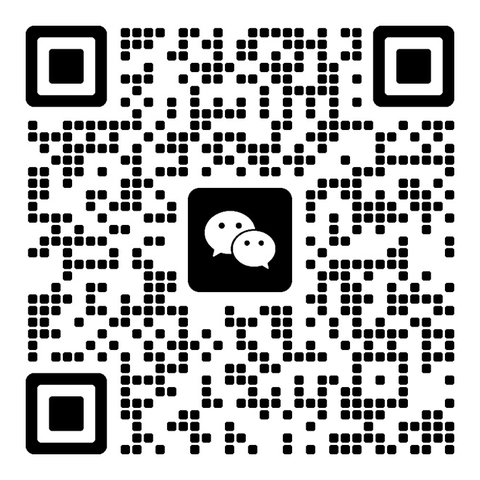
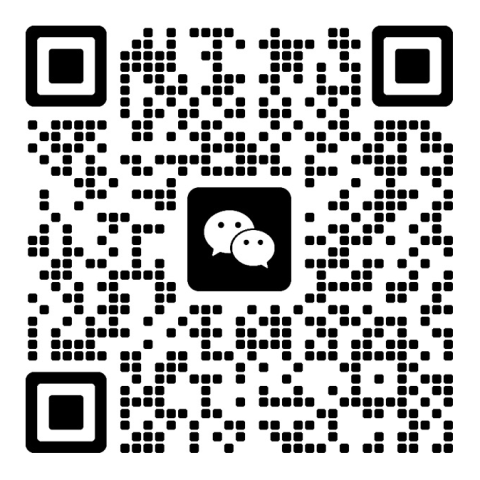
Add WeChat (new QR) to contact sections; home quote band as Al Rajhi Steel sales
- assets/img/wechat-qr.png replaced with Omar's current WeChat QR
  (decodes to u.wechat.com/kE-uHAEidJhDIJ80ba1eqgM); the "add on WeChat"
  link on all Chinese pages updated to match.
- WeChat line + QR block added to the contact sections of /rebar/, /ar/rebar/,
  home (EN, AR) and /contact/ (EN, AR), next to WhatsApp, email, LinkedIn, X.
- Home quote band: label "Al Rajhi Steel · Reinforcing steel sales" and
  "I will arrange an official Al Rajhi Steel quotation" (EN, AR).

Claude-Session: https://claude.ai/code/session_015w6cDdfB8Ng253RMhHQUzo

diff --git a/ar/index.html b/ar/index.html
@@ -607,15 +607,17 @@
       <ul class="contact-list rise">
         <li><a href="mailto:omar.mashharawi@rajhisteel.com" dir="ltr">omar.mashharawi@rajhisteel.com<span>بريد العمل</span></a></li>
         <li><a href="mailto:info@mashharawi.com" dir="ltr">info@mashharawi.com<span>البريد</span></a></li>
+        <li><a href="#wechat">WeChat<span>امسح الرمز</span></a></li>
       </ul>
+      <div id="wechat" style="display:flex;flex-wrap:wrap;gap:24px;align-items:center;margin-top:28px;padding:20px;border:1px solid var(--line);max-width:760px"><img src="/assets/img/wechat-qr.png?v=20261116" width="160" height="160" alt="رمز WeChat لعمر المشهراوي" loading="lazy" decoding="async" style="width:160px;height:160px;display:block;background:#fff"><div><h3 style="margin:0 0 8px">WeChat</h3><p style="margin:0 0 14px;max-width:46ch">امسح الرمز بتطبيق WeChat لإضافتي. أرسل المقاسات والكميات أو جدول التفريد، ويمكن الكتابة بالصينية أو العربية أو الإنجليزية.</p><a class="q-btn q-btn--line" href="https://u.wechat.com/kE-uHAEidJhDIJ80ba1eqgM?s=2" target="_blank" rel="noopener">أضفني على WeChat من الجوال</a></div></div>
     </div>
   </section>
 
   <section class="q-band" aria-labelledby="qb-h">
     <div class="wrap">
-      <p class="q-eyebrow">توريد حديد التسليح · الراجحي للحديد</p>
+      <p class="q-eyebrow">الراجحي للحديد · مبيعات حديد التسليح</p>
       <h2 id="qb-h">تحتاج حديد تسليح لمشروعك؟</h2>
-      <p>أنا رئيس قسم في الراجحي للحديد. أرسل لي المقاسات والكميات أو جدول التفريد، وأرجع لك بعرض سعر.</p>
+      <p>أنا رئيس قسم في الراجحي للحديد. أرسل لي المقاسات والكميات أو جدول التفريد، وأرتّب لك عرض سعر رسمياً من الراجحي للحديد.</p>
       <ul class="q-facts">
         <li>10 إلى 32 مم · طول 12 م</li><li>Grade 60 و Grade 80</li><li>قص حسب الطلب</li><li>دهان إيبوكسي</li><li>شهادات المطحنة للمقاسات والدرجة المطلوبة</li><li>تسليم فوري بعد الدفع أو الاعتماد البنكي وفق إجراءات الشركة</li><li>الرياض · جدة · القصيم · الطائف</li><li>شحن لجميع مناطق المملكة</li>
       </ul>

diff --git a/index.html b/index.html
@@ -642,15 +642,17 @@
       <ul class="contact-list rise">
         <li><a href="mailto:omar.mashharawi@rajhisteel.com">omar.mashharawi@rajhisteel.com<span>Work email</span></a></li>
         <li><a href="mailto:info@mashharawi.com">info@mashharawi.com<span>Email</span></a></li>
+        <li><a href="#wechat">WeChat<span>Scan the QR code</span></a></li>
       </ul>
+      <div id="wechat" style="display:flex;flex-wrap:wrap;gap:24px;align-items:center;margin-top:28px;padding:20px;border:1px solid var(--line);max-width:760px"><img src="/assets/img/wechat-qr.png?v=20261116" width="160" height="160" alt="Omar Mashharawi WeChat QR code" loading="lazy" decoding="async" style="width:160px;height:160px;display:block;background:#fff"><div><h3 style="margin:0 0 8px">WeChat</h3><p style="margin:0 0 14px;max-width:46ch">Scan with WeChat to add me. Send the sizes and tonnes or the bar bending schedule, in Chinese, English or Arabic.</p><a class="q-btn q-btn--line" href="https://u.wechat.com/kE-uHAEidJhDIJ80ba1eqgM?s=2" target="_blank" rel="noopener">Add me on WeChat from your phone</a></div></div>
     </div>
   </section>
 
   <section class="q-band" aria-labelledby="qb-h">
     <div class="wrap">
-      <p class="q-eyebrow">Rebar supply · Al Rajhi Steel</p>
+      <p class="q-eyebrow">Al Rajhi Steel · Reinforcing steel sales</p>
       <h2 id="qb-h">Need reinforcing steel for a project?</h2>
-      <p>I am a Section Head at Al Rajhi Steel. Send me the sizes and quantities, or the bar bending schedule, and I will come back with a quotation.</p>
+      <p>I am a Section Head at Al Rajhi Steel. Send me the sizes and quantities, or the bar bending schedule, and I will arrange an official Al Rajhi Steel quotation for you.</p>
       <ul class="q-facts">
         <li>10 to 32 mm · 12 m bars</li><li>Grade 60 and Grade 80</li><li>Cut to length</li><li>Epoxy coating</li><li>Mill test certificates for the sizes and grade ordered</li><li>Immediate delivery after payment or LC, subject to company procedures</li><li>Riyadh · Jeddah · Qassim · Taif</li><li>Shipping across Saudi Arabia</li>
       </ul>

diff --git a/ar/rebar/index.html b/ar/rebar/index.html
@@ -445,7 +445,9 @@
         <li><a href="mailto:omar.mashharawi@rajhisteel.com" dir="ltr">omar.mashharawi@rajhisteel.com<span>بريد العمل</span></a></li>
         <li><a href="https://www.linkedin.com/in/mashharawi" target="_blank" rel="noopener" dir="ltr">linkedin.com/in/mashharawi<span>LinkedIn</span></a></li>
         <li><a href="https://x.com/MashharawiOmar" target="_blank" rel="noopener me" dir="ltr">x.com/MashharawiOmar<span>X</span></a></li>
+        <li><a href="#wechat">WeChat<span>امسح الرمز</span></a></li>
       </ul>
+      <div id="wechat" style="display:flex;flex-wrap:wrap;gap:24px;align-items:center;margin-top:28px;padding:20px;border:1px solid var(--line);max-width:760px"><img src="/assets/img/wechat-qr.png?v=20261116" width="160" height="160" alt="رمز WeChat لعمر المشهراوي" loading="lazy" decoding="async" style="width:160px;height:160px;display:block;background:#fff"><div><h3 style="margin:0 0 8px">WeChat</h3><p style="margin:0 0 14px;max-width:46ch">امسح الرمز بتطبيق WeChat لإضافتي. أرسل المقاسات والكميات أو جدول التفريد، ويمكن الكتابة بالصينية أو العربية أو الإنجليزية.</p><a class="q-btn q-btn--line" href="https://u.wechat.com/kE-uHAEidJhDIJ80ba1eqgM?s=2" target="_blank" rel="noopener">أضفني على WeChat من الجوال</a></div></div>
     </div>
   </section>
 </main>

diff --git a/zh/epoxy-coated-rebar/index.html b/zh/epoxy-coated-rebar/index.html
@@ -239,11 +239,11 @@
       </ol>
       <div class="q-actions" style="margin-top:22px"><a class="q-btn q-btn--wa" href="https://wa.me/message/D6ABM7QFWVSPB1" target="_blank" rel="noopener">WhatsApp 询价</a><a class="q-btn q-btn--line" href="mailto:omar.mashharawi@rajhisteel.com"><span class="q-num">omar.mashharawi@rajhisteel.com</span></a></div>
       <div class="zh-wechat" id="wechat">
-        <img src="/assets/img/wechat-qr.png" width="180" height="180" alt="Omar Mashharawi 微信二维码" loading="lazy" decoding="async">
+        <img src="/assets/img/wechat-qr.png?v=20261116" width="180" height="180" alt="Omar Mashharawi 微信二维码" loading="lazy" decoding="async">
         <div>
           <h3>微信联系</h3>
           <p>用微信扫一扫，添加 Omar 为好友。发送规格、吨位或钢筋下料单即可询价，中文信息可直接发送。</p>
-          <a class="q-btn q-btn--line" href="https://u.wechat.com/kJPu8P8r5LIkhk1HdSOSRrg?s=2" target="_blank" rel="noopener">在手机上用微信添加</a>
+          <a class="q-btn q-btn--line" href="https://u.wechat.com/kE-uHAEidJhDIJ80ba1eqgM?s=2" target="_blank" rel="noopener">在手机上用微信添加</a>
         </div>
       </div>
       <ul class="contact-list" style="margin-top:22px">

diff --git a/zh/hrb400-vs-astm-a615/index.html b/zh/hrb400-vs-astm-a615/index.html
@@ -279,11 +279,11 @@
       </ol>
       <div class="q-actions" style="margin-top:22px"><a class="q-btn q-btn--wa" href="https://wa.me/message/D6ABM7QFWVSPB1" target="_blank" rel="noopener">WhatsApp 询价</a><a class="q-btn q-btn--line" href="mailto:omar.mashharawi@rajhisteel.com"><span class="q-num">omar.mashharawi@rajhisteel.com</span></a></div>
       <div class="zh-wechat" id="wechat">
-        <img src="/assets/img/wechat-qr.png" width="180" height="180" alt="Omar Mashharawi 微信二维码" loading="lazy" decoding="async">
+        <img src="/assets/img/wechat-qr.png?v=20261116" width="180" height="180" alt="Omar Mashharawi 微信二维码" loading="lazy" decoding="async">
         <div>
           <h3>微信联系</h3>
           <p>用微信扫一扫，添加 Omar 为好友。发送规格、吨位或钢筋下料单即可询价，中文信息可直接发送。</p>
-          <a class="q-btn q-btn--line" href="https://u.wechat.com/kJPu8P8r5LIkhk1HdSOSRrg?s=2" target="_blank" rel="noopener">在手机上用微信添加</a>
+          <a class="q-btn q-btn--line" href="https://u.wechat.com/kE-uHAEidJhDIJ80ba1eqgM?s=2" target="_blank" rel="noopener">在手机上用微信添加</a>
         </div>
       </div>
       <ul class="contact-list" style="margin-top:22px">

diff --git a/zh/index.html b/zh/index.html
@@ -208,11 +208,11 @@
       </ol>
       <div class="q-actions" style="margin-top:22px"><a class="q-btn q-btn--wa" href="https://wa.me/message/D6ABM7QFWVSPB1" target="_blank" rel="noopener">WhatsApp 询价</a><a class="q-btn q-btn--line" href="mailto:omar.mashharawi@rajhisteel.com"><span class="q-num">omar.mashharawi@rajhisteel.com</span></a></div>
       <div class="zh-wechat" id="wechat">
-        <img src="/assets/img/wechat-qr.png" width="180" height="180" alt="Omar Mashharawi 微信二维码" loading="lazy" decoding="async">
+        <img src="/assets/img/wechat-qr.png?v=20261116" width="180" height="180" alt="Omar Mashharawi 微信二维码" loading="lazy" decoding="async">
         <div>
           <h3>微信联系</h3>
           <p>用微信扫一扫，添加 Omar 为好友。发送规格、吨位或钢筋下料单即可询价，中文信息可直接发送。</p>
-          <a class="q-btn q-btn--line" href="https://u.wechat.com/kJPu8P8r5LIkhk1HdSOSRrg?s=2" target="_blank" rel="noopener">在手机上用微信添加</a>
+          <a class="q-btn q-btn--line" href="https://u.wechat.com/kE-uHAEidJhDIJ80ba1eqgM?s=2" target="_blank" rel="noopener">在手机上用微信添加</a>
         </div>
       </div>
       <ul class="contact-list" style="margin-top:22px">

diff --git a/zh/rebar-cutting-bending/index.html b/zh/rebar-cutting-bending/index.html
@@ -255,11 +255,11 @@
       </ol>
       <div class="q-actions" style="margin-top:22px"><a class="q-btn q-btn--wa" href="https://wa.me/message/D6ABM7QFWVSPB1" target="_blank" rel="noopener">WhatsApp 询价</a><a class="q-btn q-btn--line" href="mailto:omar.mashharawi@rajhisteel.com"><span class="q-num">omar.mashharawi@rajhisteel.com</span></a></div>
       <div class="zh-wechat" id="wechat">
-        <img src="/assets/img/wechat-qr.png" width="180" height="180" alt="Omar Mashharawi 微信二维码" loading="lazy" decoding="async">
+        <img src="/assets/img/wechat-qr.png?v=20261116" width="180" height="180" alt="Omar Mashharawi 微信二维码" loading="lazy" decoding="async">
         <div>
           <h3>微信联系</h3>
           <p>用微信扫一扫，添加 Omar 为好友。发送规格、吨位或钢筋下料单即可询价，中文信息可直接发送。</p>
-          <a class="q-btn q-btn--line" href="https://u.wechat.com/kJPu8P8r5LIkhk1HdSOSRrg?s=2" target="_blank" rel="noopener">在手机上用微信添加</a>
+          <a class="q-btn q-btn--line" href="https://u.wechat.com/kE-uHAEidJhDIJ80ba1eqgM?s=2" target="_blank" rel="noopener">在手机上用微信添加</a>
         </div>
       </div>
       <ul class="contact-list" style="margin-top:22px">

diff --git a/zh/rebar-price-saudi/index.html b/zh/rebar-price-saudi/index.html
@@ -255,11 +255,11 @@
       </ol>
       <div class="q-actions" style="margin-top:22px"><a class="q-btn q-btn--wa" href="https://wa.me/message/D6ABM7QFWVSPB1" target="_blank" rel="noopener">WhatsApp 询价</a><a class="q-btn q-btn--line" href="mailto:omar.mashharawi@rajhisteel.com"><span class="q-num">omar.mashharawi@rajhisteel.com</span></a></div>
       <div class="zh-wechat" id="wechat">
-        <img src="/assets/img/wechat-qr.png" width="180" height="180" alt="Omar Mashharawi 微信二维码" loading="lazy" decoding="async">
+        <img src="/assets/img/wechat-qr.png?v=20261116" width="180" height="180" alt="Omar Mashharawi 微信二维码" loading="lazy" decoding="async">
         <div>
           <h3>微信联系</h3>
           <p>用微信扫一扫，添加 Omar 为好友。发送规格、吨位或钢筋下料单即可询价，中文信息可直接发送。</p>
-          <a class="q-btn q-btn--line" href="https://u.wechat.com/kJPu8P8r5LIkhk1HdSOSRrg?s=2" target="_blank" rel="noopener">在手机上用微信添加</a>
+          <a class="q-btn q-btn--line" href="https://u.wechat.com/kE-uHAEidJhDIJ80ba1eqgM?s=2" target="_blank" rel="noopener">在手机上用微信添加</a>
         </div>
       </div>
       <ul class="contact-list" style="margin-top:22px">

diff --git a/zh/rebar-procurement-saudi/index.html b/zh/rebar-procurement-saudi/index.html
@@ -257,11 +257,11 @@
       </ol>
       <div class="q-actions" style="margin-top:22px"><a class="q-btn q-btn--wa" href="https://wa.me/message/D6ABM7QFWVSPB1" target="_blank" rel="noopener">WhatsApp 询价</a><a class="q-btn q-btn--line" href="mailto:omar.mashharawi@rajhisteel.com"><span class="q-num">omar.mashharawi@rajhisteel.com</span></a></div>
       <div class="zh-wechat" id="wechat">
-        <img src="/assets/img/wechat-qr.png" width="180" height="180" alt="Omar Mashharawi 微信二维码" loading="lazy" decoding="async">
+        <img src="/assets/img/wechat-qr.png?v=20261116" width="180" height="180" alt="Omar Mashharawi 微信二维码" loading="lazy" decoding="async">
         <div>
           <h3>微信联系</h3>
           <p>用微信扫一扫，添加 Omar 为好友。发送规格、吨位或钢筋下料单即可询价，中文信息可直接发送。</p>
-          <a class="q-btn q-btn--line" href="https://u.wechat.com/kJPu8P8r5LIkhk1HdSOSRrg?s=2" target="_blank" rel="noopener">在手机上用微信添加</a>
+          <a class="q-btn q-btn--line" href="https://u.wechat.com/kE-uHAEidJhDIJ80ba1eqgM?s=2" target="_blank" rel="noopener">在手机上用微信添加</a>
         </div>
       </div>
       <ul class="contact-list" style="margin-top:22px">

diff --git a/zh/rebar-quotation-guide/index.html b/zh/rebar-quotation-guide/index.html
@@ -230,11 +230,11 @@
       </ol>
       <div class="q-actions" style="margin-top:22px"><a class="q-btn q-btn--wa" href="https://wa.me/message/D6ABM7QFWVSPB1" target="_blank" rel="noopener">WhatsApp 询价</a><a class="q-btn q-btn--line" href="mailto:omar.mashharawi@rajhisteel.com"><span class="q-num">omar.mashharawi@rajhisteel.com</span></a></div>
       <div class="zh-wechat" id="wechat">
-        <img src="/assets/img/wechat-qr.png" width="180" height="180" alt="Omar Mashharawi 微信二维码" loading="lazy" decoding="async">
+        <img src="/assets/img/wechat-qr.png?v=20261116" width="180" height="180" alt="Omar Mashharawi 微信二维码" loading="lazy" decoding="async">
         <div>
           <h3>微信联系</h3>
           <p>用微信扫一扫，添加 Omar 为好友。发送规格、吨位或钢筋下料单即可询价，中文信息可直接发送。</p>
-          <a class="q-btn q-btn--line" href="https://u.wechat.com/kJPu8P8r5LIkhk1HdSOSRrg?s=2" target="_blank" rel="noopener">在手机上用微信添加</a>
+          <a class="q-btn q-btn--line" href="https://u.wechat.com/kE-uHAEidJhDIJ80ba1eqgM?s=2" target="_blank" rel="noopener">在手机上用微信添加</a>
         </div>
       </div>
       <ul class="contact-list" style="margin-top:22px">

diff --git a/zh/rebar-weight-table/index.html b/zh/rebar-weight-table/index.html
@@ -242,11 +242,11 @@
       </ol>
       <div class="q-actions" style="margin-top:22px"><a class="q-btn q-btn--wa" href="https://wa.me/message/D6ABM7QFWVSPB1" target="_blank" rel="noopener">WhatsApp 询价</a><a class="q-btn q-btn--line" href="mailto:omar.mashharawi@rajhisteel.com"><span class="q-num">omar.mashharawi@rajhisteel.com</span></a></div>
       <div class="zh-wechat" id="wechat">
-        <img src="/assets/img/wechat-qr.png" width="180" height="180" alt="Omar Mashharawi 微信二维码" loading="lazy" decoding="async">
+        <img src="/assets/img/wechat-qr.png?v=20261116" width="180" height="180" alt="Omar Mashharawi 微信二维码" loading="lazy" decoding="async">
         <div>
           <h3>微信联系</h3>
           <p>用微信扫一扫，添加 Omar 为好友。发送规格、吨位或钢筋下料单即可询价，中文信息可直接发送。</p>
-          <a class="q-btn q-btn--line" href="https://u.wechat.com/kJPu8P8r5LIkhk1HdSOSRrg?s=2" target="_blank" rel="noopener">在手机上用微信添加</a>
+          <a class="q-btn q-btn--line" href="https://u.wechat.com/kE-uHAEidJhDIJ80ba1eqgM?s=2" target="_blank" rel="noopener">在手机上用微信添加</a>
         </div>
       </div>
       <ul class="contact-list" style="margin-top:22px">

diff --git a/zh/rebar/index.html b/zh/rebar/index.html
@@ -291,11 +291,11 @@
       </ol>
       <div class="q-actions" style="margin-top:22px"><a class="q-btn q-btn--wa" href="https://wa.me/message/D6ABM7QFWVSPB1" target="_blank" rel="noopener">WhatsApp 询价</a><a class="q-btn q-btn--line" href="mailto:omar.mashharawi@rajhisteel.com"><span class="q-num">omar.mashharawi@rajhisteel.com</span></a></div>
       <div class="zh-wechat" id="wechat">
-        <img src="/assets/img/wechat-qr.png" width="180" height="180" alt="Omar Mashharawi 微信二维码" loading="lazy" decoding="async">
+        <img src="/assets/img/wechat-qr.png?v=20261116" width="180" height="180" alt="Omar Mashharawi 微信二维码" loading="lazy" decoding="async">
         <div>
           <h3>微信联系</h3>
           <p>用微信扫一扫，添加 Omar 为好友。发送规格、吨位或钢筋下料单即可询价，中文信息可直接发送。</p>
-          <a class="q-btn q-btn--line" href="https://u.wechat.com/kJPu8P8r5LIkhk1HdSOSRrg?s=2" target="_blank" rel="noopener">在手机上用微信添加</a>
+          <a class="q-btn q-btn--line" href="https://u.wechat.com/kE-uHAEidJhDIJ80ba1eqgM?s=2" target="_blank" rel="noopener">在手机上用微信添加</a>
         </div>
       </div>
       <ul class="contact-list" style="margin-top:22px">
